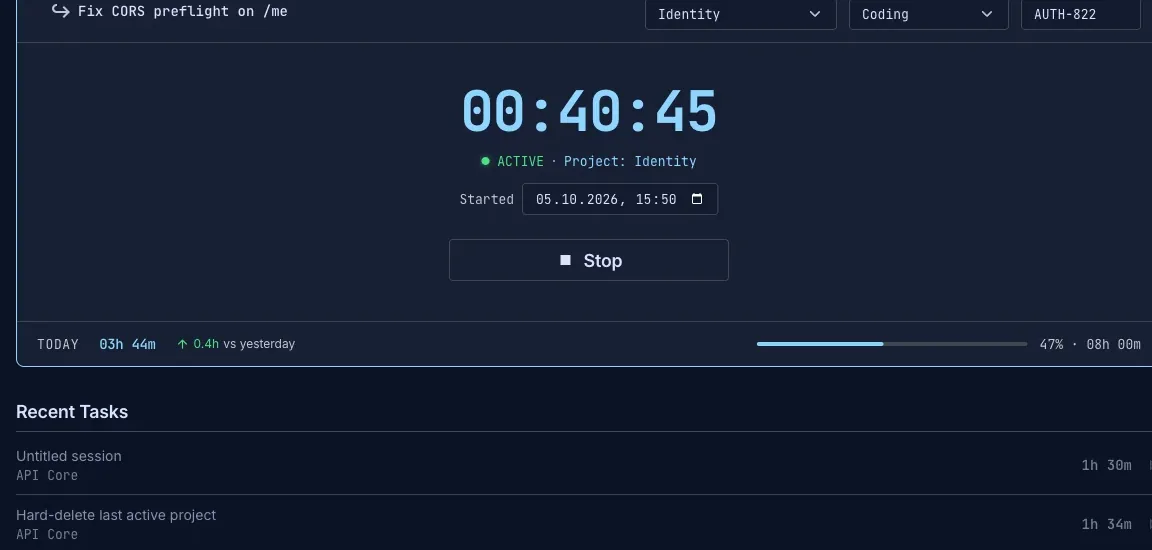
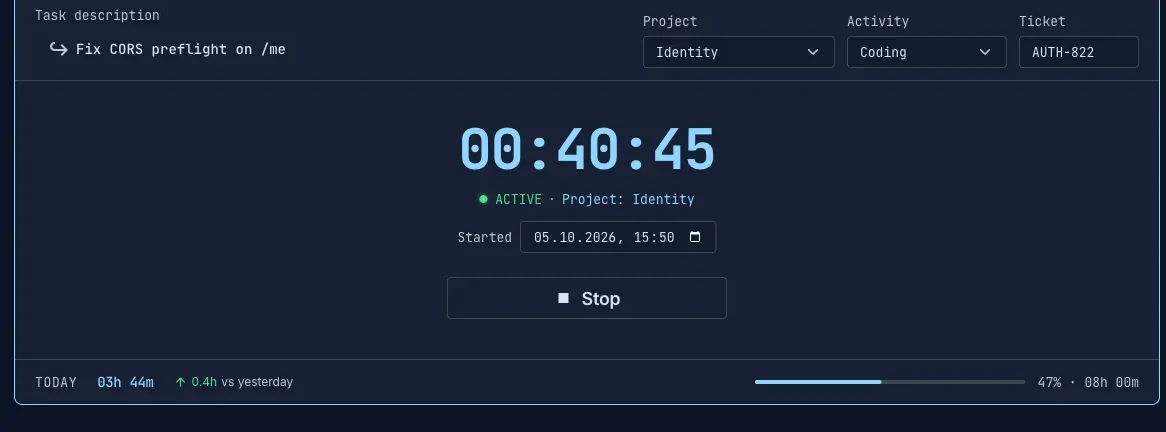
Give the hero room and keep the TODAY row intact.
The mobile frame shows the full TODAY row, the byline breaks on purpose, and the desktop window includes the task row with the TODAY bar still above the fold. The insights peek uses a larger crop of a few days.

diff --git a/css/pages.css b/css/pages.css
@@ -1,5 +1,5 @@
 .hero {
-	padding: 0.35rem 0 0;
+	padding: 0.85rem 0 0;
 }
 
 .hero-copy {
@@ -8,7 +8,7 @@
 	text-align: center;
 	display: grid;
 	justify-items: center;
-	gap: 0.35rem;
+	gap: 0.7rem;
 }
 
 .hero-copy h1,
@@ -19,15 +19,16 @@
 .hero-copy .lead {
 	max-width: 34em;
 	text-wrap: balance;
-	line-height: 1.35;
+	line-height: 1.45;
 }
 
 .hero-byline {
 	margin: 0;
-	max-width: none;
+	max-width: 36rem;
 	color: var(--muted);
 	font-size: var(--fs-small);
-	line-height: 1.3;
+	line-height: 1.35;
+	text-wrap: balance;
 }
 
 .feature-copy .label {
@@ -90,7 +91,7 @@
 .hero-media {
 	position: relative;
 	width: min(68rem, calc(100% - 2rem));
-	margin: 0.35rem auto 0;
+	margin: 0.9rem auto 0;
 }
 
 .hero-stage {
@@ -106,34 +107,17 @@
 	max-width: none;
 }
 
-@media (min-width: 1100px) {
-	.hero {
-		padding-top: 0;
-	}
-
-	.hero-copy {
-		gap: 0.15rem;
-	}
-
-	.hero-copy .label {
-		line-height: 1.2;
-	}
-
-	.hero h1 {
-		font-size: 4.5rem;
-		line-height: 1;
-	}
-
-	.hero-copy .lead {
-		line-height: 1.2;
-	}
-
+@media (max-width: 640px) {
 	.hero-byline {
-		line-height: 1.2;
+		display: flex;
+		flex-direction: column;
+		align-items: center;
+		gap: 0.12rem;
+		max-width: 18rem;
 	}
 
-	.hero-media {
-		margin-top: 0;
+	.byline-sep {
+		display: none;
 	}
 }
 
@@ -152,23 +136,25 @@
 .hero-media .window-timer {
 	position: relative;
 	z-index: 1;
+	width: min(54rem, 100%);
+	margin-inline: auto;
 }
 
 .hero-media .window-week {
 	position: absolute;
 	z-index: 2;
-	top: 4.5rem;
-	right: 1.25rem;
-	width: min(22rem, 32%);
+	top: 6.25rem;
+	right: 0;
+	width: min(32rem, 48%);
 	box-shadow: var(--shadow-window);
 }
 
 .hero-media .window-timer .window-view {
-	aspect-ratio: 1152 / 550;
+	aspect-ratio: 1166 / 432;
 }
 
 .hero-media .window-week .window-view {
-	aspect-ratio: 1110 / 410;
+	aspect-ratio: 520 / 190;
 }
 
 .hero-media .window-view img {
@@ -424,8 +410,12 @@
 		display: none;
 	}
 
+	.hero-media .window-timer {
+		width: 100%;
+	}
+
 	.hero-media .window-timer .window-view {
-		aspect-ratio: 720 / 355;
+		aspect-ratio: 840 / 649;
 	}
 }
 

diff --git a/tests/acceptance.spec.js b/tests/acceptance.spec.js
@@ -35,6 +35,8 @@ test('landing length, fold, type scale, and CTA', async ({ page }) => {
 			lead: visible('.hero-copy .lead'),
 			cta: visible('.hero-actions .btn-primary'),
 			windowShown: shown,
+			windowBottom: win.bottom,
+			vh,
 			captionShown: caption.top < vh && caption.bottom > 0 && caption.height > 0,
 			h1Size: parseFloat(getComputedStyle(document.querySelector('#hero-title')).fontSize),
 		};
@@ -42,7 +44,8 @@ test('landing length, fold, type scale, and CTA', async ({ page }) => {
 	expect(fold.h1).toBeTruthy();
 	expect(fold.lead).toBeTruthy();
 	expect(fold.cta).toBeTruthy();
-	expect(fold.windowShown).toBeGreaterThanOrEqual(440);
+	expect(fold.windowShown).toBeGreaterThanOrEqual(340);
+	expect(fold.windowBottom).toBeLessThanOrEqual(fold.vh + 1);
 	expect(fold.h1Size).toBeLessThanOrEqual(73);
 	expect(fold.h1Size).toBeGreaterThanOrEqual(68);
 	await expect(page.locator('.hero-caption')).toHaveText('Live capture of the daily driver');
@@ -117,6 +120,13 @@ test('mobile fold keeps chips intact and the page short', async ({ page }) => {
 	await expect(page.locator('.nav-menu')).toBeVisible();
 	await expect(page.locator('.nav-links')).toBeHidden();
 	await expect(page.locator('.window-timer .window-title')).toHaveText('vynno.localhost');
+	const bylineLines = await page.locator('.hero-byline > span').evaluateAll((els) =>
+		els
+			.filter((el) => getComputedStyle(el).display !== 'none')
+			.map((el) => Math.round(el.getBoundingClientRect().top)),
+	);
+	expect(new Set(bylineLines).size).toBe(2);
+	await expect(page.locator('.window-week')).toBeHidden();
 });
 
 test('no horizontal scroll from 320px and touch targets', async ({ page }) => {

diff --git a/index.html b/index.html
@@ -118,7 +118,8 @@
 						</p>
 					</div>
 					<p class="hero-byline">
-						Side project by Emil Majer · SvelteKit + Go · built with AI agents
+						<span>Side project by Emil Majer</span><span class="byline-sep"> · </span
+						><span>SvelteKit + Go · built with AI agents</span>
 					</p>
 				</div>
 
@@ -132,9 +133,9 @@
 							<div class="window-view">
 								<img
 									src="./assets/screens/crops/hero-week.webp"
-									width="1110"
-									height="410"
-									alt="Insights timeline from the same local capture: hours across the days of the week."
+									width="520"
+									height="190"
+									alt="Insights timeline from the same local capture: a few days of the week, with hour bars large enough to read."
 								/>
 							</div>
 						</figure>
@@ -152,9 +153,9 @@
 									/>
 									<img
 										src="./assets/screens/crops/hero-timer-desktop.webp"
-										width="1152"
-										height="550"
-										alt="Vynno timer on vynno.localhost: the session clock, Stop, and the TODAY bar, without the sidebar."
+										width="1166"
+										height="432"
+										alt="Vynno timer on vynno.localhost: task row, session clock, Stop, and the full TODAY row."
 										fetchpriority="high"
 									/>
 								</picture>
